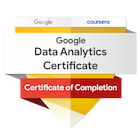
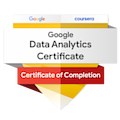
Added two badges

diff --git a/index.html b/index.html
@@ -641,8 +641,32 @@
       padding: 20px 0;
     }
   
+    .footer-content {
+      display: flex;
+      justify-content: center; /* Align items horizontally */
+      align-items: flex-end; /* Align items to the bottom vertically */
+      height: 100%; /* Set the height of the container to 100% */
+    }
+  
+    .footer-content a {
+      display: flex; /* Display images as flex items */
+      margin: 0 30px; /* Adjust the spacing between images */
+      height: 100%; /* Ensure anchor tags take full height of the line */
+      align-items: flex-end; /* Align items to the bottom vertically */
+    }
+  
     .footer-content img {
-      display: inline-block;
+      display: block; /* Display images as block elements */
+      max-width: 100%;
+      max-height: 100%;
+      object-fit: contain; /* Maintain aspect ratio and fit within the container */
+      margin: auto; /* Center align the images horizontally */
+    }
+  
+    html, body {
+      height: 100%; /* Set the height of the HTML and body elements to 100% */
+      margin: 0; /* Remove default margin */
+      padding: 0; /* Remove default padding */
     }
   </style>
   
@@ -650,12 +674,19 @@
     <div class="footer-content">
       <!-- Certification Badge Code -->
       <a href="https://www.certificationprovider.com/certificate-link" target="_blank">
-        <img src="assets/img/portfolio/google-1.png" alt="Certification Badge">
+        <img src="assets/img/portfolio/google-7.png" alt="Certification Badge">
+      </a>
+  
+      <!-- Certification Badge Code -->
+      <a href="https://www.certificationprovider.com/certificate-link" target="_blank">
+        <img src="assets/img/portfolio/google-3.png" alt="Certification Badge">
       </a>
     </div>
   </footer>
-    
+  
+  
 
+  
   
 </body>
 
